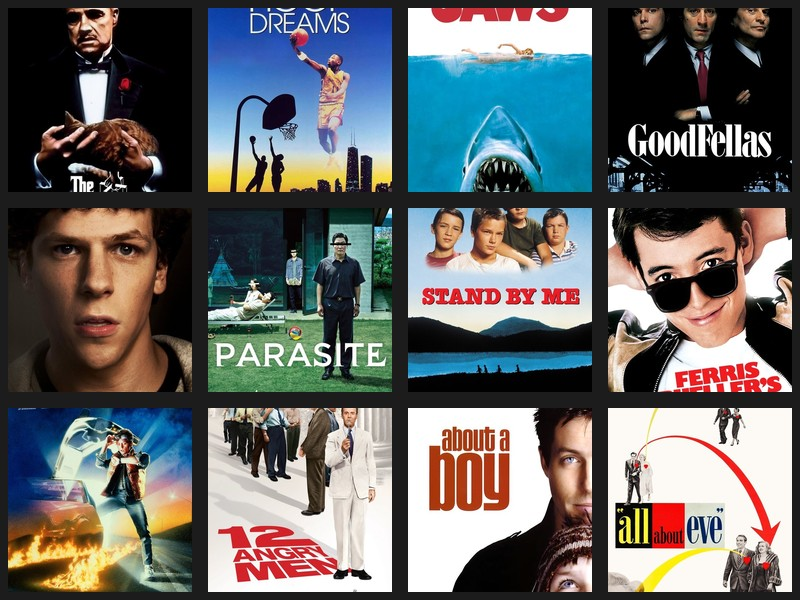
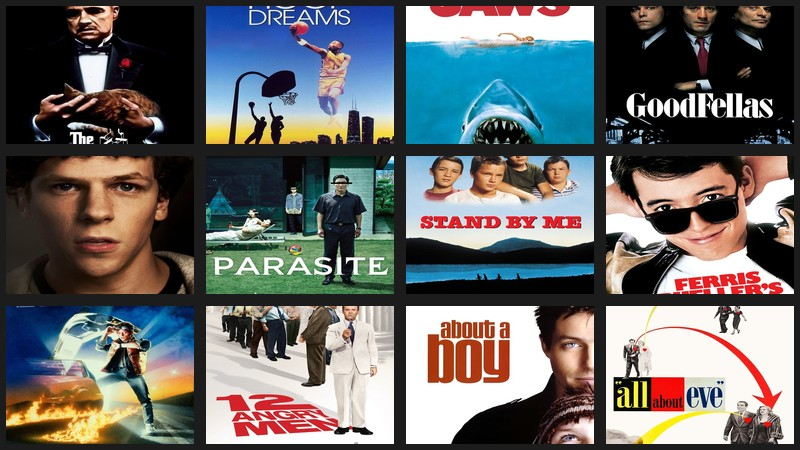
Change Films block to 4:3 landscape aspect ratio with 4:3 poster cells

diff --git a/frontend/public/index-root.html b/frontend/public/index-root.html
@@ -155,7 +155,9 @@
             overflow: hidden;
         }
         
+        /* Films block: 4:3 landscape aspect ratio (wider than tall) */
         .block.films-block {
+            aspect-ratio: 4 / 3;
             background-image: url('/films-quilt.jpg');
             background-size: cover;
             background-position: center;

diff --git a/backend/create_films_quilt.py b/backend/create_films_quilt.py
@@ -13,10 +13,11 @@ from urllib.parse import urlparse
 
 DATABASE = 'films.db'
 OUTPUT_FILE = 'films_quilt.jpg'
-GRID_COLUMNS = 4  # 4 columns × 3 rows for 12 films (landscape matches square block)
+GRID_COLUMNS = 4  # 4 columns × 3 rows for 12 films
 GRID_ROWS = 3
-CELL_SIZE = 200  # Size of each grid cell
-PADDING = 8  # Small padding to show more of edge posters
+CELL_WIDTH = 200  # Width of each grid cell
+CELL_HEIGHT = 150  # Height of each grid cell (4:3 aspect ratio - landscape)
+PADDING = 6  # Small padding to show more of edge posters
 
 def get_top_films(limit=12):
     """Get top films with The Godfather and Hoop Dreams first, then A-grade ranking"""
@@ -72,27 +73,28 @@ def download_image(url):
         return None
 
 def create_quilt(films, output_file=OUTPUT_FILE):
-    """Create a patchwork quilt from film posters with maintained aspect ratios"""
+    """Create a patchwork quilt from film posters with 4:3 landscape cells"""
     print(f"Creating quilt from {len(films)} films...")
     
     # Create a blank canvas with dark background (matches site theme)
-    quilt_width = GRID_COLUMNS * CELL_SIZE
-    quilt_height = GRID_ROWS * CELL_SIZE
+    quilt_width = GRID_COLUMNS * CELL_WIDTH
+    quilt_height = GRID_ROWS * CELL_HEIGHT
     quilt = Image.new('RGB', (quilt_width, quilt_height), color='#1c1c1c')  # Dark charcoal to match site
     
     downloaded = 0
     failed = 0
     
     # Image size with small padding to show more of edge posters
-    image_size = CELL_SIZE - (PADDING * 2)
+    image_width = CELL_WIDTH - (PADDING * 2)
+    image_height = CELL_HEIGHT - (PADDING * 2)
     
     for idx, film in enumerate(films):
         row = idx // GRID_COLUMNS
         col = idx % GRID_COLUMNS
         
         # Calculate position with padding
-        x = col * CELL_SIZE + PADDING
-        y = row * CELL_SIZE + PADDING
+        x = col * CELL_WIDTH + PADDING
+        y = row * CELL_HEIGHT + PADDING
         
         print(f"[{idx+1}/{len(films)}] Processing: {film['title']}")
         
@@ -127,15 +129,15 @@ def create_quilt(films, output_file=OUTPUT_FILE):
                 poster_img = poster_img.crop((left, top, right, bottom))
             # If already square, no crop needed
             
-            # Resize the square image to fill the cell exactly
-            poster_img = poster_img.resize((image_size, image_size), Image.Resampling.LANCZOS)
+            # Resize to fill the cell exactly (4:3 landscape)
+            poster_img = poster_img.resize((image_width, image_height), Image.Resampling.LANCZOS)
             
             # Paste directly - no offset needed since it fills the cell
             quilt.paste(poster_img, (x, y))
             downloaded += 1
         else:
             # Create a dark placeholder
-            placeholder = Image.new('RGB', (image_size, image_size), color='#2a2a2a')
+            placeholder = Image.new('RGB', (image_width, image_height), color='#2a2a2a')
             quilt.paste(placeholder, (x, y))
             failed += 1
     
